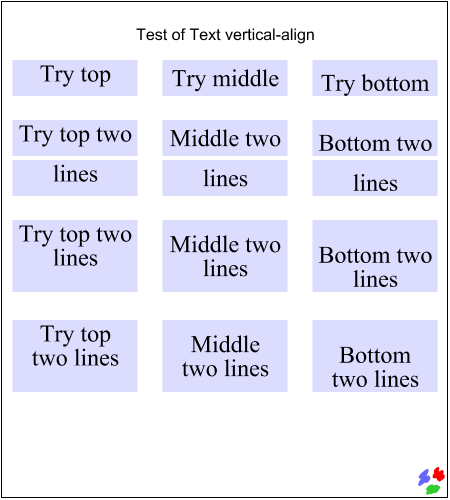
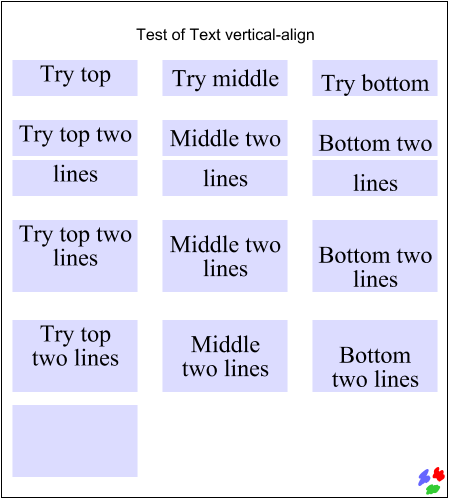
1) Fixed NPE when the Batik flowText extension lacks any text. 2) Optimizations in Arabic text handling (thanks dvholten) 3) Added 'getters' for fill and stroke properties on GVT Painters. 4) Corrected bounding code in Image Zoom Interactor (Thanks Urs)
git-svn-id: https://svn.apache.org/repos/asf/xmlgraphics/batik/branches/svg11@380326 13f79535-47bb-0310-9956-ffa450edef68

Changed region(s): [[0.0311, 0.81, 0.3111, 0.96]]

diff --git a/sources/org/apache/batik/gvt/text/ArabicTextHandler.java b/sources/org/apache/batik/gvt/text/ArabicTextHandler.java
@@ -263,11 +263,14 @@ public class ArabicTextHandler {
      */
     public static boolean arabicCharTransparent(char c) {
         int charVal = c;
-        if ((charVal >= 0x064B && charVal <= 0x0655) ||
+        if ((charVal  < 0x064B) || (charVal > 0x06ED)) 
+            return false;
+
+        if ((charVal <= 0x0655)                      ||
             (charVal == 0x0670)                      ||
             (charVal >= 0x06D6 && charVal <= 0x06E4) ||
             (charVal >= 0x06E7 && charVal <= 0x06E8) ||
-            (charVal >= 0x06EA && charVal <= 0x06ED)) {
+            (charVal >= 0x06EA)) {
             return true;
         }
         return false;
@@ -466,33 +469,37 @@ public class ArabicTextHandler {
     }
 
     /**
-     * Returns the number of characters the glyph for the specified character
-     * represents. If the glyph represents a ligature this will be 2, otherwise 1.
+     * Returns the number of characters the glyph for the specified
+     * character represents. If the glyph represents a ligature this
+     * will be 2, otherwise 1.
      *
      * @param c The character to test.
      * @return The number of characters the glyph for c represents.
      */
     public static int getNumChars(char c) {
         // if c is a ligature returns 2, else returns 1
-        if (isLigature(c)) {
+        if (isLigature(c))
             // at the moment only support ligatures with two chars
             return 2;
-        }
         return 1;
     }
 
     /**
-     * Returns true if the glyph for the specified character respresents a ligature.
+     * Returns true if the glyph for the specified character
+     * respresents a ligature.
      *
      * @param c The character to test.
      * @return True if c is a ligature, false otherwise.
      */
     public static boolean isLigature(char c) {
         int charVal = c;
-        if ((charVal >= 0xFE70 && charVal <= 0xFE72)
-            || (charVal == 0xFE74)
-            || (charVal >= 0xFE76 && charVal <= 0xFE7F)
-            || (charVal >= 0xFEF5 && charVal <= 0xFEFC)) {
+        if ((charVal < 0xFE70) || (charVal > 0xFEFC)) 
+            return false;
+
+        if ((charVal <= 0xFE72)                      ||
+            (charVal == 0xFE74)                      ||
+            (charVal >= 0xFE76 && charVal <= 0xFE7F) ||
+            (charVal >= 0xFEF5)) {
             return true;
         }
         return false;

diff --git a/sources/org/apache/batik/swing/gvt/AbstractImageZoomInteractor.java b/sources/org/apache/batik/swing/gvt/AbstractImageZoomInteractor.java
@@ -106,20 +106,22 @@ public class AbstractImageZoomInteractor extends InteractorAdapter {
      * bounds of the component).
      */
     public void mouseDragged(MouseEvent e) {
+        AffineTransform at;
         JGVTComponent c = (JGVTComponent)e.getSource();
 
         xCurrent = e.getX();
         yCurrent = e.getY();
 
-        AffineTransform at = AffineTransform.getTranslateInstance(xStart, yStart);
+        at = AffineTransform.getTranslateInstance(xStart, yStart);
         int dy = yCurrent - yStart;
+        double s;
         if (dy < 0) {
-            dy = (dy > -5) ? 15 : dy - 10;
+            dy -= 10;
+            s = (dy > -15) ? 1.0 : -15.0/dy;
         } else {
-            dy = (dy < 5) ? 15 : dy + 10;
+            dy += 10;
+            s = (dy <  15) ? 1.0 : dy/15.0;
         }
-        double s = dy / 15.0;
-        s = (s > 0) ? s : -1 / s;
 
         at.scale(s, s);
         at.translate(-xStart, -yStart);

diff --git a/sources/org/apache/batik/gvt/StrokeShapePainter.java b/sources/org/apache/batik/gvt/StrokeShapePainter.java
@@ -77,12 +77,26 @@ public class StrokeShapePainter implements ShapePainter {
     }
 
     /**
+     * Gets the stroke used to draw the outline of the shape.
+     */
+    public Stroke getStroke() {
+        return stroke;
+    }
+
+    /**
      * Sets the paint used to fill a shape.
      *
      * @param newPaint the paint object used to draw the shape
      */
     public void setPaint(Paint newPaint) {
         this.paint = newPaint;
+    }
+
+    /**
+     * Gets the paint used to draw the outline of the shape.
+     */
+    public Paint getPaint() {
+        return paint;
     }
 
     /**

diff --git a/sources/org/apache/batik/bridge/SVGTextElementBridge.java b/sources/org/apache/batik/bridge/SVGTextElementBridge.java
@@ -827,10 +827,10 @@ public class SVGTextElementBridge extends AbstractGraphicsNodeBridge
         if (preserve)
             endLimit = asb.length();
         
-	Map map = getAttributeMap(ctx, element, textPath, bidiLevel);
-	Object o = map.get(TextAttribute.BIDI_EMBEDDING);
+        Map map = getAttributeMap(ctx, element, textPath, bidiLevel);
+        Object o = map.get(TextAttribute.BIDI_EMBEDDING);
         Integer subBidiLevel = bidiLevel;
-	if (o != null)
+        if (o != null)
 	    subBidiLevel = ((Integer)o);
 
         for (Node n = element.getFirstChild();

diff --git a/sources/org/apache/batik/gvt/font/AWTGVTGlyphVector.java b/sources/org/apache/batik/gvt/font/AWTGVTGlyphVector.java
@@ -799,11 +799,7 @@ public class AWTGVTGlyphVector implements GVTGlyphVector {
         int end   = endGlyphIndex+ci.getBeginIndex();
 
         for (char c = ci.setIndex(start); ci.getIndex() <= end; c=ci.next()) {
-            if (ArabicTextHandler.isLigature(c)) {
-                charCount += ArabicTextHandler.getNumChars(c);
-            } else {
-                charCount++;
-            }
+            charCount += ArabicTextHandler.getNumChars(c);
         }
 
         return charCount;

diff --git a/sources/org/apache/batik/extension/svg/BatikFlowTextElementBridge.java b/sources/org/apache/batik/extension/svg/BatikFlowTextElementBridge.java
@@ -135,6 +135,8 @@ public class BatikFlowTextElementBridge extends SVGTextElementBridge
                                                      Element element) {
         List rgns = getRegions(ctx, element);
         AttributedString ret = getFlowDiv(ctx, element);
+        if (ret == null) return ret;
+
         ret.addAttribute(FLOW_REGIONS, rgns, 0, 1);
         return ret;
     }

diff --git a/sources/org/apache/batik/gvt/FillShapePainter.java b/sources/org/apache/batik/gvt/FillShapePainter.java
@@ -65,6 +65,13 @@ public class FillShapePainter implements ShapePainter {
     }
 
     /**
+     * Gets the paint used to draw the outline of the shape.
+     */
+    public Paint getPaint() {
+        return paint;
+    }
+
+    /**
      * Paints the specified shape using the specified Graphics2D.
      *
      * @param g2d the Graphics2D to use
